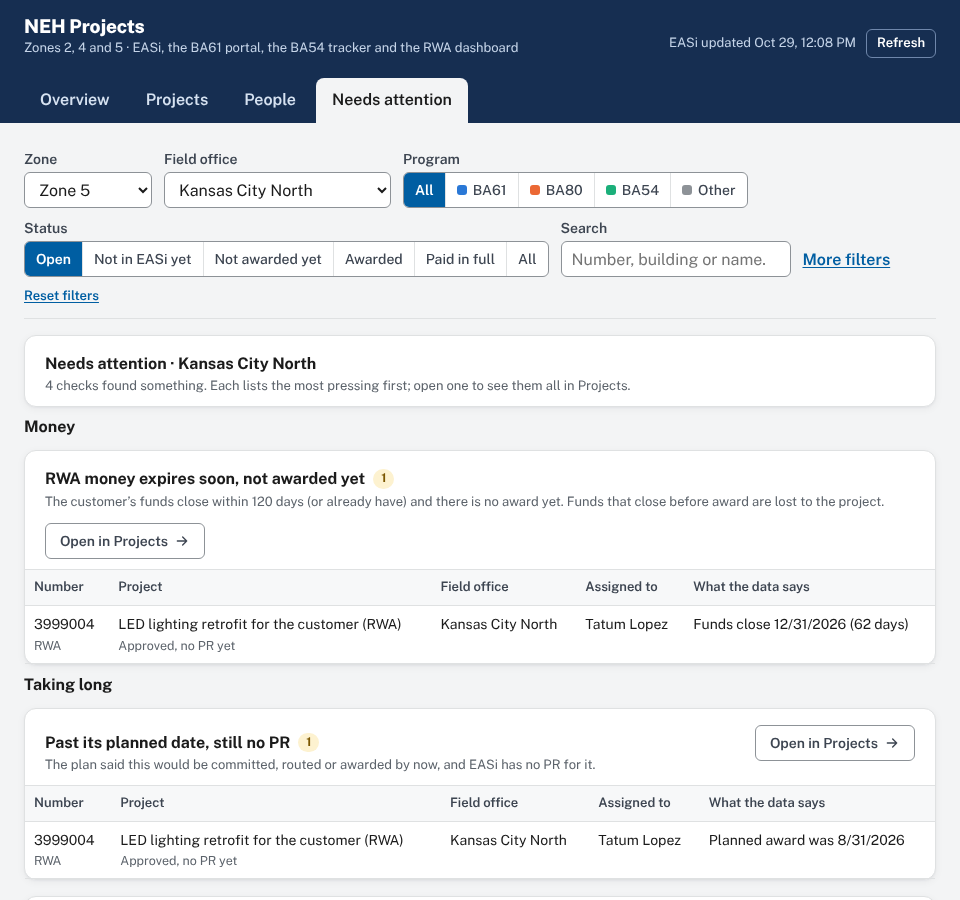
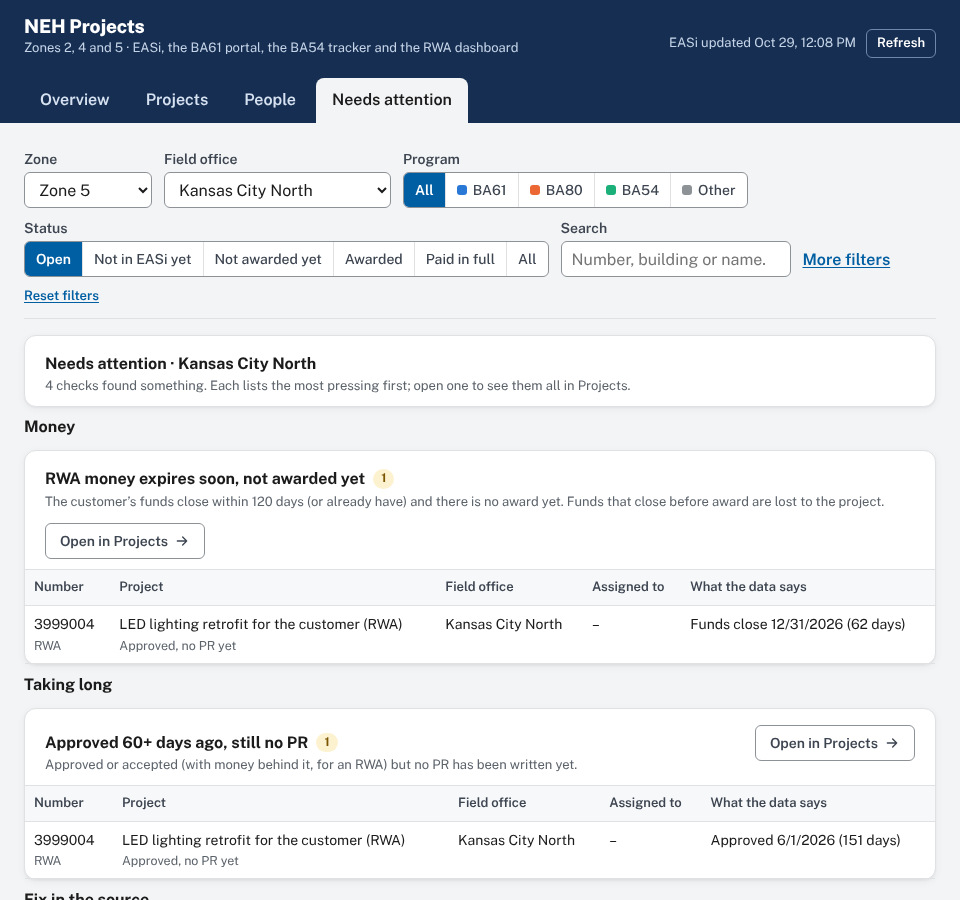
Leave Kahua out of the RWA source
Kahua's people and dates are too often out of date, and many PMs don't
use it. The RWA dashboard's GSA PM now comes from RETA only (no Kahua PM
fallback; an RWA with none counts as nobody assigned, which Needs
attention lists), and the "Kahua project" line is gone from the panel.

The dashboard's planned award, construction start and substantial
completion dates are Kahua's too: they are only ever filled in for RWAs
with a Kahua project (0 of 4,363 without one). They are no longer read,
so "Past its planned date" uses the BA61 portal's commitment month and
the BA54 tracker's PR routing month only (6 projects instead of 195).
Work request, acceptance and fund closing dates are RETA's and stay.

Claude-Session: https://claude.ai/code/session_01RMxVjbo95iv27hvqChW3bh

diff --git a/dev/demo-data.js b/dev/demo-data.js
@@ -189,7 +189,7 @@ function demoSources(count) {
   const kc = OFFICES[2];  // Kansas City North
   const kcStaff = officeStaff[kc[1]];
   [
-    // [RWA No, type, sev, status, obligated, building, GSA PM, Kahua PM]
+    // [RWA No, type, sev, status, obligated, building, GSA PM in RETA, Kahua PM (ignored)]
     [rwaPr > 0 ? String(pipeline[rwaPr][rwaCol]) : '3000001', 'N', 'Nonseverable', 'Accepted', 50000, null, kcStaff[3], ''],
     ['3999001', 'N', 'Nonseverable', 'Accepted', 90000, null, kcStaff[3], ''],
     ['3999002', 'W', 'Nonseverable', 'Planning/Estimate', 0, null, kcStaff[4], ''],
@@ -218,8 +218,8 @@ function demoSources(count) {
     row[colR('RETA GSA PM/POC')] = x[6] || null;
     row[colR('Kahua GSA PM')] = x[7] || null;
     row[colR('RWA Accepted FY')] = 2026;
-    // Accepted in June with money closing at the end of December and an award planned for August:
-    // the Needs attention view has something to show.
+    // Accepted in June with money closing at the end of December: the Needs attention view has
+    // something to show. (The planned award date is Kahua's, which the tracker ignores.)
     if (x[3] === 'Accepted') { row[colR('RWA Accepted Date')] = '2026-06-01T05:00:00.000Z'; row[colR('Planned Construction/Lease Award')] = '2026-08-31T05:00:00.000Z'; }
     row[colR('Next Fund Closing Date')] = x[3] === 'Accepted' ? '12/31/2026' : 'NO-YEAR';
     row[colR('Description')] = pick(WORK) + ' for the customer (RWA)';

diff --git a/dev/test.js b/dev/test.js
@@ -379,7 +379,7 @@ test('RWA dashboard: RWAs with no PR and no money are added; PRs show their RWA'
   assert.strictEqual(byNumber['3999002'].estimate, 80000, 'a work request uses the pending amount');
   assert.strictEqual(byNumber['3999003'].stage, 'pending');
   assert.strictEqual(byNumber['3999004'].stage, 'noPr');
-  assert.ok(byNumber['3999004'].lead[0].indexOf('@') !== -1, 'the Kahua PM when RETA names none');
+  assert.strictEqual(byNumber['3999004'].lead.length, 0, 'no GSA PM in RETA: nobody (Kahua is not used)');
   assert.ok(!byNumber['3999005'], 'money but no PR: funded another way');
   assert.ok(/Severable/.test(byNumber['3999007'].service), 'severable RWAs are services');
   assert.ok(rwas.every((p) => p.programs[0] === 'PG80' && /&range=A\d+$/.test(p.link)));

diff --git a/webapp/JsAttention.html b/webapp/JsAttention.html
@@ -50,7 +50,7 @@ var ATTENTION_CHECKS = [
   },
   {
     key: 'pastTarget', group: 'time', title: 'Past its planned date, still no PR',
-    why: 'The plan said this would be committed, routed or awarded by now, and EASi has no PR for it.',
+    why: 'The plan said this would be committed (BA61 portal) or routed (BA54 tracker) by now, and EASi has no PR for it.',
     test: function (p) { return isPlanned(p) && p.dueBy && p.dueBy < snapshotDay() ? p.dueWhat + ' was ' + fmtDate(p.dueBy) : ''; },
     sortKey: function (p) { return p.dueBy; }
   },

diff --git a/README.md b/README.md
@@ -28,7 +28,7 @@ Four tabs, all following the same filters.
 
 **People**: everyone ranked by how many projects they have, counted by person assigned (default), the building's building manager, contracting officer or contract specialist; with not in EASi / not awarded / awarded, BA61/80/54 counts, dollars and their oldest open fiscal year. Split by field office if you like. Click a person to see their projects.
 
-**Needs attention**: checks over the data, grouped as *Money* (RWA funds closing within 120 days with no award; committed more than 25% over the plan; awarded over a year ago with nothing paid), *Taking long* (past the plan's own commitment, PR routing or award date with no PR; approved 60+ days ago with no PR; 60+ days as a draft PR or 30+ days in review or waiting for a contract specialist) and *Fix in the source* (cancelled or denied in the portal but has a PR; nobody assigned; a person named with no email found; a BA54 row with no PCN; a PR with no building in EASi). Each says why it matters, lists the most pressing first, and opens all of them in Projects.
+**Needs attention**: checks over the data, grouped as *Money* (RWA funds closing within 120 days with no award; committed more than 25% over the plan; awarded over a year ago with nothing paid), *Taking long* (past the plan's own commitment month (BA61 portal) or PR routing month (BA54 tracker) with no PR; approved 60+ days ago with no PR; 60+ days as a draft PR or 30+ days in review or waiting for a contract specialist) and *Fix in the source* (cancelled or denied in the portal but has a PR; nobody assigned; a person named with no email found; a BA54 row with no PCN; a PR with no building in EASi). Each says why it matters, lists the most pressing first, and opens all of them in Projects.
 
 ![Needs attention for one field office (demo data)](docs/img/attention.png)
 
@@ -42,7 +42,7 @@ Four tabs, all following the same filters.
 
 | Term | Meaning |
 |---|---|
-| Not in EASi yet | A project that is planned or approved but that no PR in EASi carries yet, from two sheets. **BA61 portal:** Planning, Pending Approval, Approved or Emergency NTP projects, when no PR has the portal number (RM0024-092426) in its title or comments and the EQ number is not a PR in the report (the portal's own EASi sync rule). **BA54 tracker:** Active and Pending projects in the Current Program tab, when no PR from the project's planned fiscal year or the year before lists its PCN or ASID among its project codes (codes are reused for later phases, so an old PR on the same code doesn't count); change orders are left out, since they are money on an award that already exists. **RWA dashboard** (RWAs are BA80): RWAs and work requests on NEH buildings that no PR lists, in FE_RWA_List or written in its title or comments ("RWA #N3858013"), and that have nothing committed or obligated (one with money but no PR is funded another way, such as a lease or a purchase card, and is only counted); work requests being estimated are planning, ones awaiting signature are waiting for approval, accepted RWAs are approved with no PR yet; substantially completed ones are left out, and severable RWAs count as service contracts. A project leaves this group, and shows its EASi status instead, the morning its PR appears. Each one counts as one open project at its building's field office, for its COR (BA61: the portal's COR, or the requester until there is one; BA54: the tracker's project manager, or the one marked "(COR)" when two are named; RWA: the GSA PM in RETA, else in Kahua). Its money is an estimate (the portal's budgeted amount, the tracker's total cost, the RWA's authorized amount), shown as "estimated" and never added to EASi's committed, obligated or left-to-spend totals. Both sheets give people as names; the tracker matches a name to the person's email when exactly one person on the PRs or in the building directory fits it (full name, a common nickname such as Bobby for Robert, or first initial and last name), and otherwise shows the name as written. A cell naming two people ("A / B", "A & B") counts both, and notes like "(design)" or "- PMAC" are ignored. Names it can't work out (a name change, say) go in the `NAME_EMAILS` Script property. Untick **Include planned projects not in EASi yet** under More filters to count only what is in EASi. |
+| Not in EASi yet | A project that is planned or approved but that no PR in EASi carries yet, from two sheets. **BA61 portal:** Planning, Pending Approval, Approved or Emergency NTP projects, when no PR has the portal number (RM0024-092426) in its title or comments and the EQ number is not a PR in the report (the portal's own EASi sync rule). **BA54 tracker:** Active and Pending projects in the Current Program tab, when no PR from the project's planned fiscal year or the year before lists its PCN or ASID among its project codes (codes are reused for later phases, so an old PR on the same code doesn't count); change orders are left out, since they are money on an award that already exists. **RWA dashboard** (RWAs are BA80): RWAs and work requests on NEH buildings that no PR lists, in FE_RWA_List or written in its title or comments ("RWA #N3858013"), and that have nothing committed or obligated (one with money but no PR is funded another way, such as a lease or a purchase card, and is only counted); work requests being estimated are planning, ones awaiting signature are waiting for approval, accepted RWAs are approved with no PR yet; substantially completed ones are left out, and severable RWAs count as service contracts. A project leaves this group, and shows its EASi status instead, the morning its PR appears. Each one counts as one open project at its building's field office, for its COR (BA61: the portal's COR, or the requester until there is one; BA54: the tracker's project manager, or the one marked "(COR)" when two are named; RWA: the GSA PM in RETA; Kahua is not used, since its people and dates are often out of date). Its money is an estimate (the portal's budgeted amount, the tracker's total cost, the RWA's authorized amount), shown as "estimated" and never added to EASi's committed, obligated or left-to-spend totals. Both sheets give people as names; the tracker matches a name to the person's email when exactly one person on the PRs or in the building directory fits it (full name, a common nickname such as Bobby for Robert, or first initial and last name), and otherwise shows the name as written. A cell naming two people ("A / B", "A & B") counts both, and notes like "(design)" or "- PMAC" are ignored. Names it can't work out (a name change, say) go in the `NAME_EMAILS` Script property. Untick **Include planned projects not in EASi yet** under More filters to count only what is in EASi. |
 | Plan vs. EASi | A PR that carries a BA61 portal project, a BA54 tracker project or an RWA (with its customer agency) shows it under **Planned as** in its detail panel, with the planned amount next to what EASi has committed, and the Projects table shows "plan $45K" under the committed amount (highlighted when it is more than 25% over or under). **Group by › Plan vs. EASi** sorts every project into: planned and not in EASi yet; within 25% of the plan; more than 25% over or under; a plan but nothing committed yet; also funded from other programs (a BA54 plan on a PR that is also BA80, say, so the amounts aren't comparable); a plan spread over several PRs (one RWA funding three PRs, say); a plan with no amount; no plan on file. A BA54 plan only attaches to PRs from its planned fiscal year or the year before. |
 | Days in this stage | None of the sources keep a history, so the tracker records each project's stage at every refresh, in a History tab of its saved-snapshot sheet. When a project is first seen it takes a real date if its source has one (the award date, the portal's decision or submission date, the RWA's acceptance or work request date); otherwise "40+ days" means it has been there at least since the tracker began recording. A change seen between two refreshes is dated that day. The project panel's timeline puts the plan's stages before the PR's own. |
 | Needs attention | Each check uses only the data on the page and follows the filters (not the status buttons: each check picks the stages it is about). The thresholds are in `webapp/JsAttention.html`. |
